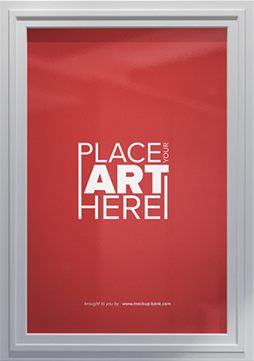
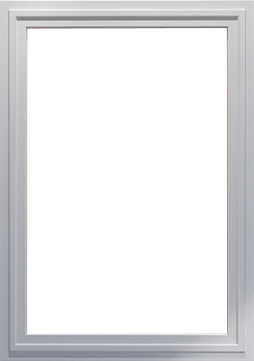
changes

diff --git a/css/style.css b/css/style.css
@@ -1389,7 +1389,8 @@ input[type="checkbox"]:checked + .c-checkbox::after {
   padding: 20px 0;
   background-color: #f3f3f3;
   -webkit-box-shadow: -0.763px -3.927px 7px 0px rgba(0, 0, 0, 0.17);
-          box-shadow: -0.763px -3.927px 7px 0px rgba(0, 0, 0, 0.17); }
+          box-shadow: -0.763px -3.927px 7px 0px rgba(0, 0, 0, 0.17);
+  font-family: 'Myriad Pro', sans-serif; }
   .footer-body {
     display: -webkit-box;
     display: -ms-flexbox;
@@ -1477,12 +1478,12 @@ input[type="checkbox"]:checked + .c-checkbox::after {
     color: #eee; }
 
 .banner {
-  background: url(../img/banner-home.jpg) 0 0 no-repeat;
+  background: #fff url(../img/banner-home.jpg) 0 0 no-repeat;
   background-size: cover;
   position: relative; }
   .banner .c-layout {
     position: relative;
-    min-height: 680px; }
+    min-height: 580px; }
   .banner-body {
     position: absolute;
     top: 50%;
@@ -1685,10 +1686,24 @@ input[type="checkbox"]:checked + .c-checkbox::after {
     color: #ffffff; }
     .license-card__img {
       text-align: center;
-      margin-bottom: 16px; }
+      margin-bottom: 16px;
+      position: relative;
+      background-color: #fff; }
+      .license-card__img::after {
+        content: '';
+        width: 100%;
+        position: absolute;
+        z-index: 10;
+        left: 0;
+        right: 0;
+        top: 0;
+        bottom: 0;
+        background: url("../img/border-license.png") 50% 50% no-repeat;
+        background-size: cover; }
       .license-card__img img {
         width: 100%;
-        height: auto; }
+        height: auto;
+        padding: 34px 26px; }
   .license .c-title {
     margin-bottom: 55px; }
 
@@ -1930,7 +1945,21 @@ input[type="checkbox"]:checked + .c-checkbox::after {
     text-align: center; }
     .benefits-card__img {
       text-align: center;
-      margin-bottom: 16px; }
+      margin-bottom: 16px;
+      height: 91px;
+      display: -webkit-box;
+      display: -ms-flexbox;
+      display: flex;
+      -webkit-box-orient: horizontal;
+      -webkit-box-direction: normal;
+          -ms-flex-flow: row nowrap;
+              flex-flow: row nowrap;
+      -webkit-box-pack: center;
+          -ms-flex-pack: center;
+              justify-content: center;
+      -webkit-box-align: center;
+          -ms-flex-align: center;
+              align-items: center; }
     .benefits-card__text {
       max-width: 210px;
       font-size: 18px;
@@ -2000,22 +2029,23 @@ input[type="checkbox"]:checked + .c-checkbox::after {
     -webkit-box-direction: normal;
         -ms-flex-flow: row wrap;
             flex-flow: row wrap;
-    -webkit-box-pack: justify;
-        -ms-flex-pack: justify;
-            justify-content: space-between;
+    -webkit-box-pack: start;
+        -ms-flex-pack: start;
+            justify-content: flex-start;
     -webkit-box-align: stretch;
         -ms-flex-align: stretch;
             align-items: stretch; }
     .scheme-list__item {
       margin-bottom: 35px;
-      width: 26%; }
+      width: 26%;
+      padding: 0 21px; }
     .scheme-list__arrow {
       margin-top: 100px;
       width: 43px;
       height: 43px;
       background: url(../img/icon-double-left.png) 0 0 no-repeat; }
       .scheme-list__arrow:last-child {
-        opacity: 0; }
+        display: none; }
   .scheme-card {
     text-align: center; }
     .scheme-card__img {

diff --git a/scss/_main.scss b/scss/_main.scss
@@ -1,12 +1,12 @@
 .banner {
-    background: url(../img/banner-home.jpg) 0 0 no-repeat;
+    background: #fff url(../img/banner-home.jpg) 0 0 no-repeat;
     -webkit-background-size: cover;
     background-size: cover;
     position: relative;
 
     .c-layout {
         position: relative;
-        min-height: 680px;
+        min-height: 580px;
     }
 
     &-body {
@@ -247,10 +247,25 @@
         &__img {
             text-align: center;
             margin-bottom: 16px;
+            position: relative;
+            background-color: #fff;
+            &::after {
+                content: '';
+                width: 100%;
+                position: absolute;
+                z-index: 10;
+                left: 0;
+                right: 0;
+                top: 0;
+                bottom: 0;
+                background: url('../img/border-license.png') 50% 50% no-repeat;
+                background-size: cover;
+            }
 
             img {
                 width: 100%;
                 height: auto;
+                padding: 34px 26px;
             }
         }
 
@@ -558,7 +573,12 @@
         text-align: center;
         &__img {
             text-align: center;
-            margin-bottom: 16px
+            margin-bottom: 16px;
+            height: 91px;
+            display: flex;
+            flex-flow: row nowrap;
+            justify-content: center;
+            align-items: center;
         }
 
         &__text {
@@ -645,11 +665,12 @@
     &-list {
         display: flex;
         flex-flow: row wrap;
-        justify-content: space-between;
+        justify-content: flex-start;
         align-items: stretch;
         &__item {
             margin-bottom: 35px;
             width: 26%;
+            padding: 0 21px;
         }
 
         &__arrow {
@@ -659,7 +680,8 @@
             background: url(../img/icon-double-left.png) 0 0 no-repeat;
 
             &:last-child {
-                opacity: 0;
+                // opacity: 0;
+                display: none;
             }
         }
     }

diff --git a/css/media.css b/css/media.css
@@ -99,6 +99,11 @@
         width:auto;
     }
 
+    .scheme-list__item {
+        padding: 0 10px;
+        width: 43%;
+    }
+
 
 }
 
@@ -184,6 +189,33 @@
     .footer-menu {
         justify-content: center;
     }
+
+    .document .c-table-row {
+        display: block;
+    }
+
+    .document .c-table-col {
+        width: 100%;
+    }
+
+    .document .c-ol-list li {
+        margin-bottom: 11px;
+    }
+    .document .c-table-col {
+        margin-bottom: 10px;
+    }
+
+    .document .c-col {
+        padding: 0;
+        flex: 0 0 100%;
+        max-width: 100%;
+        margin-bottom: 8px;
+    }
+
+    .document .c-grid {
+        margin: 0;
+        display: block;
+    }
 }
 @media (max-width: 860px){
     .partner-list__item {
@@ -244,6 +276,14 @@
     .banner-body span {
         font-size: 60px;
     }
+
+    .benefits-list__item {
+        width: 200px;
+    }
+
+    .benefits-list {
+        justify-content: center;
+    }
 }
 @media (max-width: 580px){
     .services-list {
@@ -292,12 +332,44 @@
     }
 }
 
+@media (max-width: 680px){
+    .scheme-list__item {
+        width: 100%;
+        margin-bottom: 28px;
+    }
+
+    .scheme-card__title {
+        max-width: 100%;
+        text-align: center
+    }
+
+    .scheme-list__arrow {
+        margin: 0 auto 28px;
+        transform:rotate(90deg);
+    }
+
+    .calculator .c-grid {
+        display: block;
+    }
+
+    .calculator .c-col {
+        flex: 0 0 100%;
+        max-width: 100%;
+        padding: 14px 14px 10px;
+    }
+
+    .calculator-range__total {
+        margin-bottom: 5px;
+    }
+}
+
 @media (max-width: 520px){
     .banner-body {
         position: static;
         transform: none;
         text-align: center;
-        padding: 40px 0 320px;
+        padding: 40px 0 200px;
+        font-size: 32px;
     }
 
     .banner {

diff --git a/home.html b/home.html
@@ -18,6 +18,7 @@
     <link rel="stylesheet" href="./js/slick/slick-theme.css">
 
     <link rel="stylesheet" href="./css/style.css">
+    <link rel="stylesheet" href="./css/addition.css">
 
     <link rel="stylesheet" href="./css/media.css">
 </head>
@@ -254,19 +255,19 @@
                     <ul class="license-list">
                         <li class="license-list__item">
                             <div class="license-card">
-                                <div class="license-card__img"><img src="./img/license-img.jpg" alt=""></div>
+                                <div class="license-card__img"><img src="./img/license-img-doc.jpg" alt=""></div>
 
                             </div>
                         </li>
                         <li class="license-list__item">
                             <div class="license-card">
-                                <div class="license-card__img"><img src="./img/license-img.jpg" alt=""></div>
+                                <div class="license-card__img"><img src="./img/license-img-doc.jpg" alt=""></div>
 
                             </div>
                         </li>
                         <li class="license-list__item">
                             <div class="license-card">
-                                <div class="license-card__img"><img src="./img/license-img.jpg" alt=""></div>
+                                <div class="license-card__img"><img src="./img/license-img-doc.jpg" alt=""></div>
 
                             </div>
                         </li>

diff --git a/services.html b/services.html
@@ -242,8 +242,8 @@
                                 </div>
                             </div>
                         </li>
-                        <li class="scheme-list__arrow"></li>
-                        <li class="scheme-list__item">
+                        <!-- <li class="scheme-list__arrow"></li> -->
+                        <!-- <li class="scheme-list__item">
                             <div class="scheme-card">
                                 <div class="scheme-card__img"><img src="./img/icon-browser.png" alt=""></div>
                                 <div class="scheme-card__title">Регистрация в Росреестре</div>
@@ -251,7 +251,7 @@
                                     Займ под залог недвижимости необходимо зарегистрировать в Росреестре.
                                 </div>
                             </div>
-                        </li>
+                        </li> -->
                         <li class="scheme-list__arrow"></li>
                         <li class="scheme-list__item">
                             <div class="scheme-card">

diff --git a/scss/_footer.scss b/scss/_footer.scss
@@ -2,6 +2,7 @@
     padding: 20px 0;
     background-color: #f3f3f3;
     box-shadow: -0.763px -3.927px 7px 0px rgba(0, 0, 0, 0.17);
+    font-family: 'Myriad Pro', sans-serif;
 
     &-body {
         display: flex;
